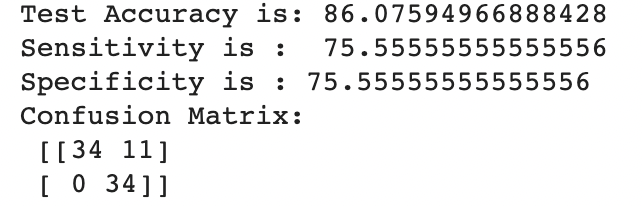
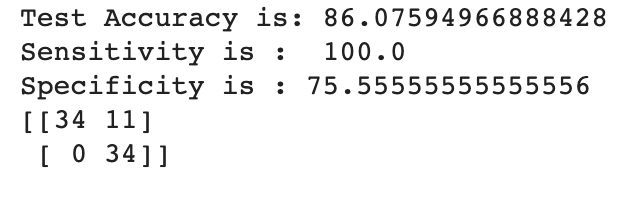
Added early stopping

diff --git a/train1.py b/train1.py
@@ -153,27 +153,28 @@ def train_model(model, criterion, optimizer, scheduler, train_size,val_size,num_
 			}, './save.pth')
 	return model
 
+##test model
 def test_model(test_loader,test_size):
 	corrects = 0
 	all_preds = []
 	y = []
 	for inputs, labels in tqdm(test_loader):
-				inputs = inputs.to(device)
-				labels = labels.to(device)
-				inputs = inputs.float()
-				labels = labels.reshape(len(labels))
-				outputs = model_conv(inputs)
-				_, preds = torch.max(outputs, 1)
-				corrects += torch.sum(preds == labels.data)
-				preds = preds.to("cpu")
-				labels = labels.to("cpu")
-				preds = preds.numpy()
-				labels = labels.numpy()
-				all_preds = np.append(all_preds,preds)
-				y = np.append(y,labels)
+		inputs = inputs.to(device)
+		labels = labels.to(device)
+		inputs = inputs.float()
+		labels = labels.reshape(len(labels))
+		outputs = model_conv(inputs)
+		_, preds = torch.max(outputs, 1)
+		corrects += torch.sum(preds == labels.data)
+		preds = preds.to("cpu")
+		labels = labels.to("cpu")
+		preds = preds.numpy()
+		labels = labels.numpy()
+		all_preds = np.append(all_preds,preds)
+		y = np.append(y,labels)
 	epoch_acc = corrects.float() / test_size
 	tn, fp, fn, tp = confusion_matrix(y, all_preds).ravel()
-	sensitivity  =tp / (tn+fp)
+	sensitivity  = tp / (tp+fn)
 	specificity = tn/(tn+fp)
 	epoch_acc = epoch_acc.to("cpu")
 	epoch_acc = epoch_acc.numpy()
@@ -184,7 +185,7 @@ def test_model(test_loader,test_size):
 
 
 if __name__ == "__main__":
-
+	##push to gpu else cpu
 	device = torch.device("cuda:0" if torch.cuda.is_available() else "cpu")
 	dataset = CustomDataset()
 	batch_size = 4
@@ -193,7 +194,7 @@ if __name__ == "__main__":
 	random_seed= 42
 	epochs = 10
 
-	# Creating data indices for training and validation splits:
+	# Creating data indices for training and validation and testing splits:
 	dataset_size = len(dataset)
 	indices = list(range(dataset_size))
 	split = int(np.floor(validation_split * dataset_size))
